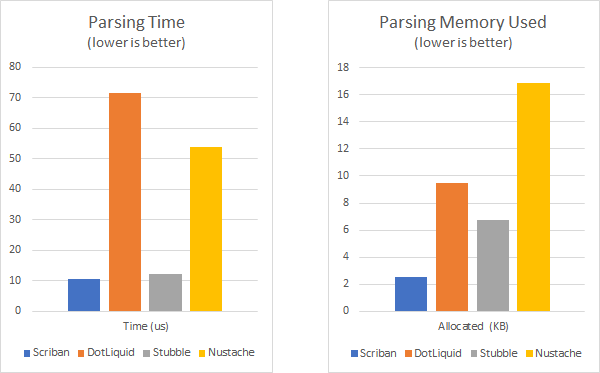
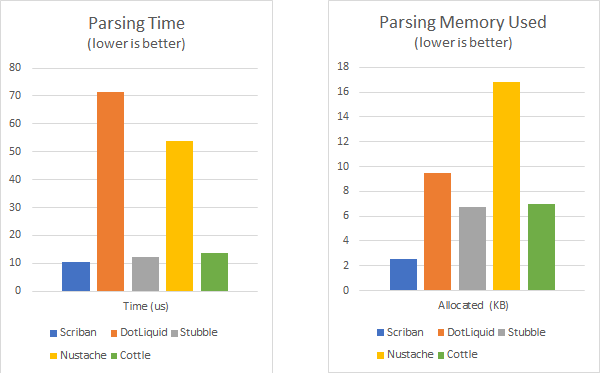
Add cottle benchmark

diff --git a/src/Scriban.Benchmarks/Program.cs b/src/Scriban.Benchmarks/Program.cs
@@ -1,6 +1,8 @@
 using System;
 using System.Collections.Generic;
+using System.Diagnostics;
 using System.IO;
+using System.Linq;
 using BenchmarkDotNet.Attributes;
 using BenchmarkDotNet.Running;
 
@@ -19,6 +21,7 @@ namespace Scriban.Benchmarks
             //var result3 = program.TestStubble();
             //var result4 = program.TestNustache();
             //var result5 = program.TestHandlebars();
+            //var result6 = program.TestCottle();
             BenchmarkRunner.Run<BenchParsers>();
             BenchmarkRunner.Run<BenchRenderers>();
         }
@@ -75,6 +78,18 @@ namespace Scriban.Benchmarks
 </ul>
 ";
 
+        public const string TextTemplateCottle = @"
+<ul id='products'>
+  { for product in products:
+    <li>
+      <h2>{ product.Name }</h2>
+           Only { product.Price }
+           { string.truncate(product.Description, 15) }
+    </li>
+  }
+</ul>
+";
+
         [Benchmark(Description = "Scriban - Parser")]
         public Scriban.Template TestScriban()
         {
@@ -106,6 +121,12 @@ namespace Scriban.Benchmarks
         {
             return HandlebarsDotNet.Handlebars.Compile(TextTemplateMustache);
         }
+
+        [Benchmark(Description = "Cottle - Parser")]
+        public Cottle.Documents.SimpleDocument TestCottle()
+        {
+            return new Cottle.Documents.SimpleDocument(TextTemplateCottle);
+        }
     }
 
     /// <summary>
@@ -120,11 +141,14 @@ namespace Scriban.Benchmarks
         private readonly Stubble.Core.Tokens.MustacheTemplate _stubbleTemplate;
         private readonly Nustache.Core.Template _nustacheTemplate;
         private readonly Func<object, string> _handlebarsTemplate;
+        private readonly Cottle.Documents.SimpleDocument _cottleTemplate;
 
         private const string Lorem = "Lorem ipsum dolor sit amet, consectetur adipiscing elit, sed do eiusmod tempor incididunt ut labore et dolore magna aliqua. Ut enim ad minim veniam, quis nostrud exercitation ullamco laboris nisi ut aliquip ex ea commodo consequat. Duis aute irure dolor in reprehenderit in voluptate velit esse cillum dolore eu fugiat nulla pariatur. Excepteur sint occaecat cupidatat non proident, sunt in culpa qui officia deserunt mollit anim id est laborum";
 
         private readonly List<Product> _products;
         private readonly List<DotLiquid.Hash> _dotLiquidProducts;
+
+        private readonly Dictionary<Cottle.Value, Cottle.Value> _cottleStringStore;
 
         public BenchRenderers()
         {
@@ -135,16 +159,27 @@ namespace Scriban.Benchmarks
             _stubbleSettings = new Stubble.Core.Settings.RendererSettingsBuilder().BuildSettings();
             _nustacheTemplate = parsers.TestNustache();
             _handlebarsTemplate = parsers.TestHandlebars();
+            _cottleTemplate = parsers.TestCottle();
 
             const int ProductCount = 500;
             _products = new List<Product>(ProductCount);
             _dotLiquidProducts = new List<DotLiquid.Hash>(ProductCount);
+            
+            var cottleValues = new List<Cottle.Value>();
             for (int i = 0; i < ProductCount; i++)
             {
                 var product = new Product("Name" + i, i, Lorem);
                 _products.Add(product);
-                _dotLiquidProducts.Add(DotLiquid.Hash.FromAnonymousObject(product));
+                var hash = DotLiquid.Hash.FromAnonymousObject(product);
+                _dotLiquidProducts.Add(hash);
+                cottleValues.Add(new Cottle.Values.ReflectionValue(product)); 
             }
+
+            // For Cottle, we match the behavior of Scriban that is accessing the Truncate function via an reflection invoke
+            // In Scriban, we could also have a direct Truncate function, but it is much less practical in terms of declaration
+            var methodInfo = typeof(Scriban.Functions.StringFunctions).GetMethod("Truncate");
+            _cottleStringStore = new Dictionary<Cottle.Value, Cottle.Value>();
+            _cottleStringStore["truncate"] = new Cottle.Functions.NativeFunction((values, store, output) => methodInfo.Invoke(null, new object[2] { Convert.ToInt32(values[1].AsNumber), values[0].AsString }).ToString(), 2);
         }
 
         [Benchmark(Description = "Scriban")]
@@ -156,6 +191,7 @@ namespace Scriban.Benchmarks
         [Benchmark(Description = "DotLiquid")]
         public string TestDotLiquid()
         {
+            // DotLiquid forces to rework the original List<Product> into a custom object, which is not the same behavior as Scriban (easier somewhat because no late binding)
             return _dotLiquidTemplate.Render(DotLiquid.Hash.FromAnonymousObject(new { products = _dotLiquidProducts }));
         }
 
@@ -188,6 +224,16 @@ namespace Scriban.Benchmarks
             {
                 products = _dotLiquidProducts
             });
+        }
+
+        [Benchmark(Description = "Cottle")]
+        public string TestCottle()
+        {
+            // This is done to match the behavior of Scriban (no preparation of the datas)
+            var cottleStore = new Cottle.Stores.BuiltinStore();
+            cottleStore["string"] = _cottleStringStore;
+            cottleStore["products"] = new Cottle.Values.ReflectionValue(_products);
+            return _cottleTemplate.Render(cottleStore);
         }
 
         public class Product

diff --git a/doc/benchmarks.md b/doc/benchmarks.md
@@ -1,6 +1,6 @@
 # Benchmarks
 
-Latest benchmark update: 23 October 2017
+Latest benchmark update: 24 October 2017
 
 This is a simple, non-exhaustive benchmark that should highlight how fast and lightweight Scriban parser and runtime is.
 
@@ -16,11 +16,12 @@ The benchmark was performed on two aspects of the libraries:
 
 Libraries used in this comparison:
 
-- Scriban (0.9.0)
-- [DotLiquid](https://github.com/dotliquid/dotliquid) (2.0.200)
-- [Nustache](https://github.com/jdiamond/Nustache) (1.16.0.4) - Mustache based
-- [Stubble](https://github.com/StubbleOrg/Stubble) (1.0.42-alpha17) - Mustache+ based
-- [Handlebars.NET](https://github.com/rexm/Handlebars.Net) (1.9.0)
+- Scriban (0.9.0), Syntax: Scriban
+- [DotLiquid](https://github.com/dotliquid/dotliquid) (2.0.200), Syntax: Liquid based
+- [Nustache](https://github.com/jdiamond/Nustache) (1.16.0.4), Syntax: Mustache based
+- [Stubble](https://github.com/StubbleOrg/Stubble) (1.0.42-alpha17), Syntax: Mustache+ based
+- [Handlebars.NET](https://github.com/rexm/Handlebars.Net) (1.9.0), Syntax: Handlebars based
+- [Cottle](https://github.com/r3c/cottle) (1.4.0.4), Syntax: Cottle
 
 For benchmarking, we are using the fantastic [BenchmarkDotNet](https://github.com/dotnet/BenchmarkDotNet)
 
@@ -29,8 +30,8 @@ See the [Scriban.Benchmark/Program.cs](../src/Scriban.Benchmarks/Program.cs) for
 [:top:](#benchmarks)
 ## Overall results
 
-- **Scriban is 1.5x to x10 times faster** than other templating engines
-- **Scriban is 3x to 30x more memory efficient** both at parsing and runtime time, than other templating engines (except with Handlebars.NET at rendering time which is on par)
+- **Scriban is 1.2x to x10 times faster** than other templating engines
+- **Scriban is 1.5x to 30x more memory efficient** both at parsing and runtime time, than other templating engines (except with Handlebars.NET at rendering time which is on par)
 
 In the following sections, you will find benchmark details.
 
@@ -97,6 +98,7 @@ Processor=Intel Core i7-7700K CPU 4.20GHz (Kaby Lake), ProcessorCount=8
         'Stubble - Parser' |    12.29 us | 0.0982 us | 0.0918 us |  1.6327 |      - |   6.74 KB |
        'Nustache - Parser' |    53.98 us | 0.1557 us | 0.1300 us |  4.0894 |      - |  16.84 KB |
  'Handlebars.NET - Parser' | 1,005.38 us | 6.5709 us | 5.8250 us | 25.3906 | 1.9531 | 106.81 KB |
+         'Cottle - Parser' |    13.54 us | 0.0456 us | 0.0426 us |  1.7090 |      - |   7.02 KB |
 
 // * Legends *
   Mean      : Arithmetic mean of all measurements
@@ -125,6 +127,7 @@ The methodology is to use the previously compiled script and use it with a list 
     Stubble |  3.507 ms | 0.0274 ms | 0.0256 ms |  593.7500 | 39.0625 | 27.3438 |  2522.75 KB |
    Nustache | 21.598 ms | 0.2369 ms | 0.1978 ms | 3718.7500 |       - |       - | 15444.73 KB |
  Handlebars |  3.404 ms | 0.0236 ms | 0.0209 ms |  171.8750 | 31.2500 | 27.3438 |   766.34 KB |
+     Cottle |  2.267 ms | 0.0159 ms | 0.0149 ms |  175.7813 | 85.9375 | 27.3438 |   900.33 KB |
  ```
 
 Note that for Stubble, It was not possible to match the behavior of the other engines, so it is including the parsing time (which is anyway insignificant compare to the rendering time in this particular case)
